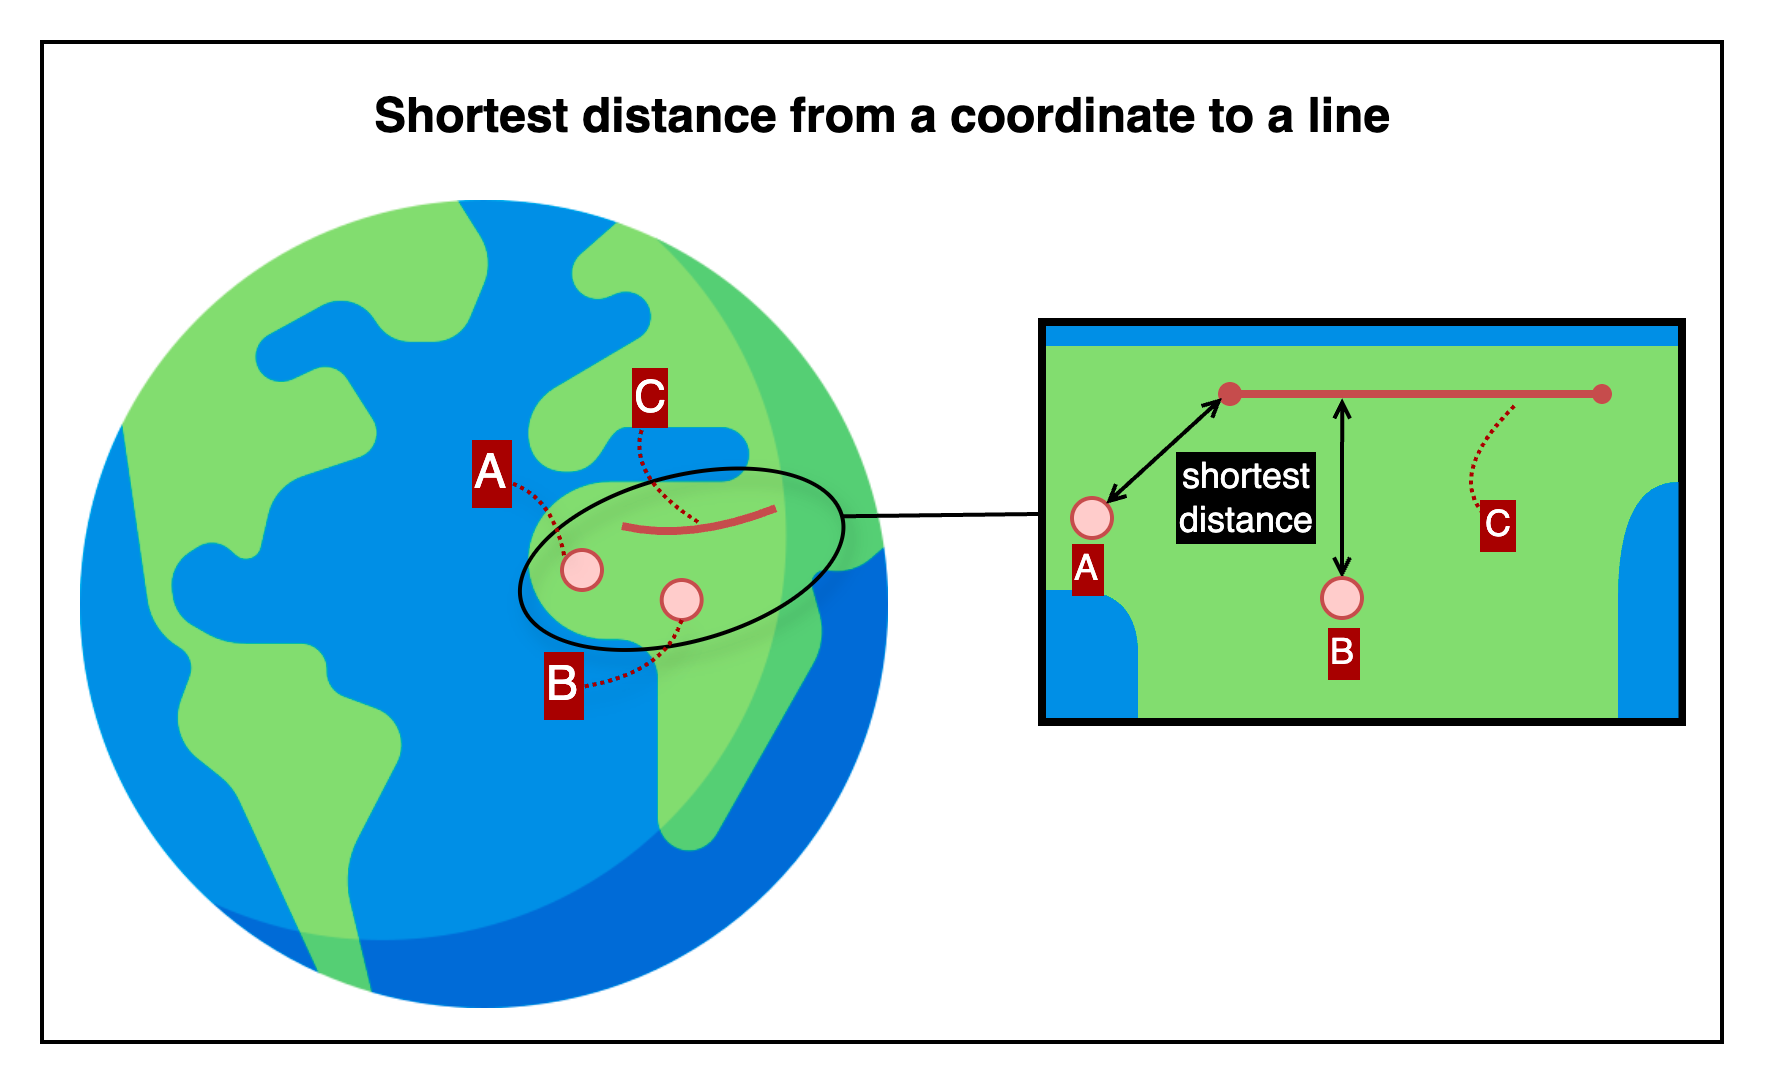
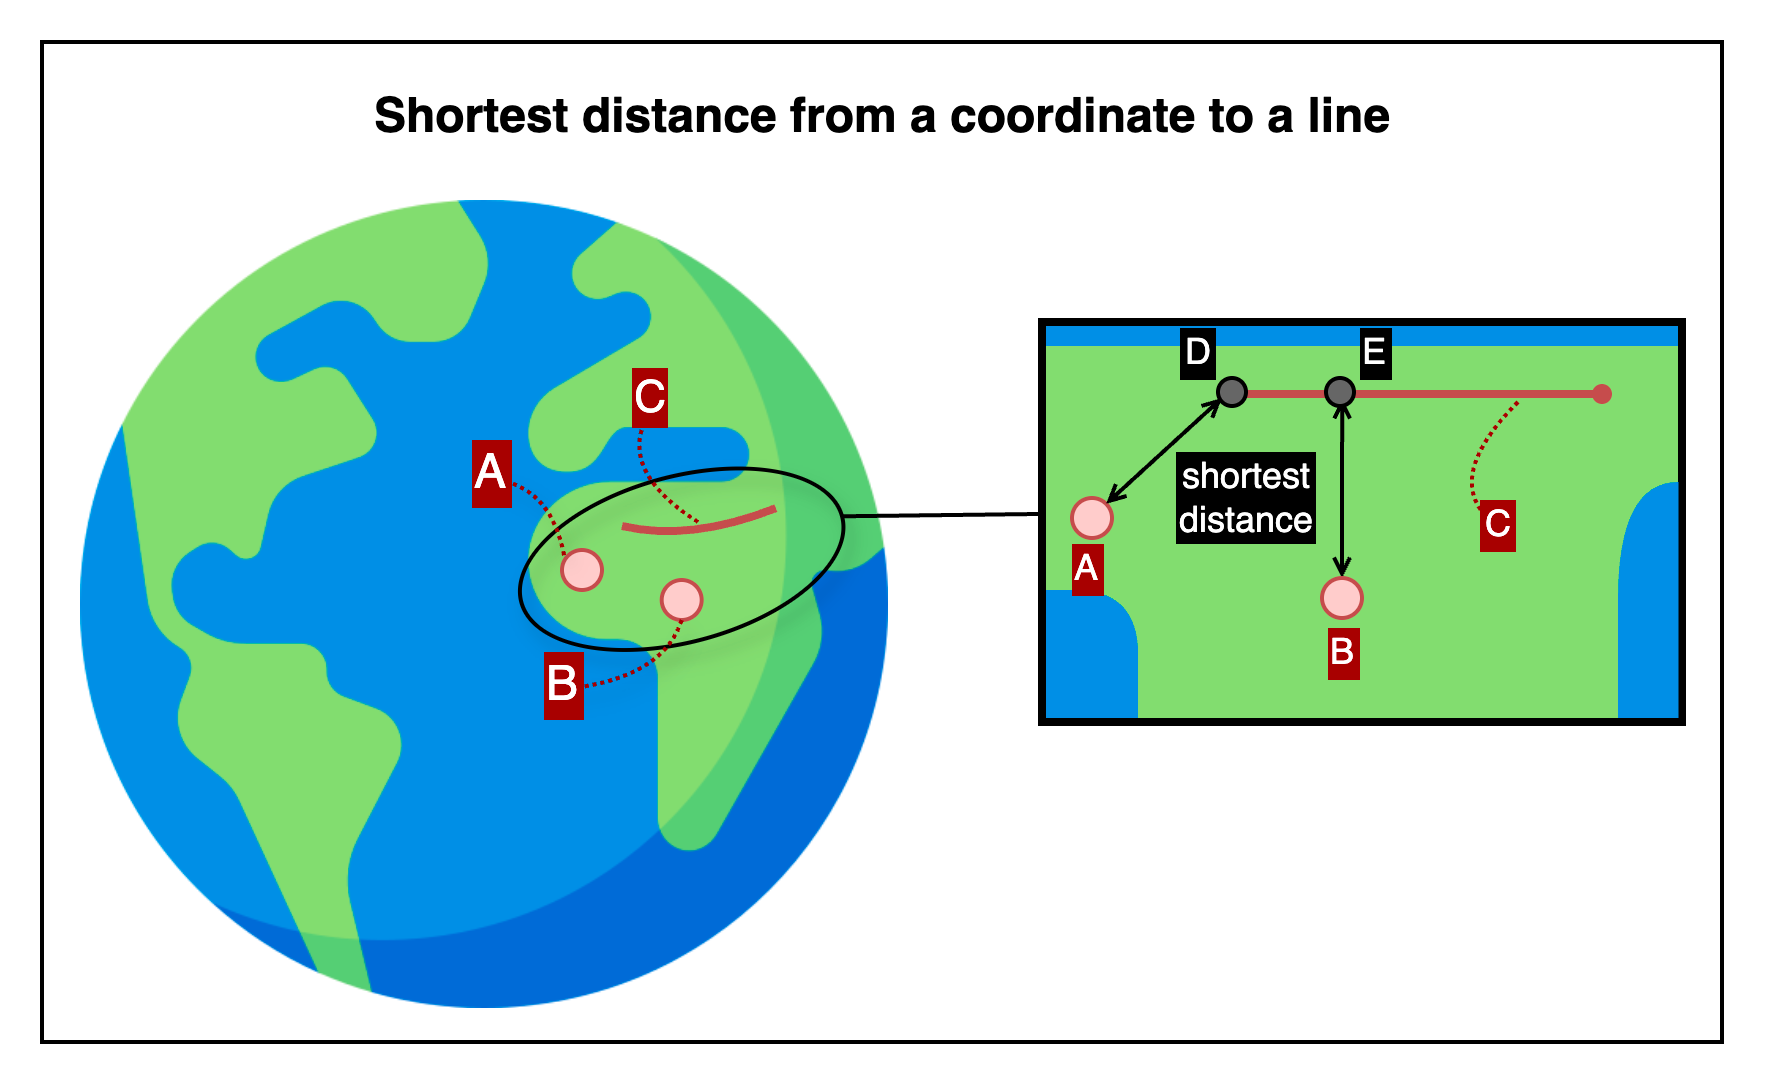
[docs] geo-calculation-toolkit-api 최신화

diff --git a/profile/projects/geo-calculation-toolkit-api/detail/shortest-distance-from-a-coordinate-to-a-line.md b/profile/projects/geo-calculation-toolkit-api/detail/shortest-distance-from-a-coordinate-to-a-line.md
@@ -1,0 +1,187 @@
+## Shortest distance from a coordinate to a line
+
+This is an HTTP API that calculates the shortest surface distance from a given coordinate to a straight line defined by
+two geographic points.
+
+
+---
+
+## 📚 Table of Contents
+
+1. [🧭 Overview](#-1-overview) — *For first-time users*
+2. [📤 Request Details](#-2-request-details) — *For developers integrating the API*
+    1. [Request Example](#21-request-example)
+    2. [Request Specifications](#22-request-specifications)
+3. [📥 Response Details](#-3-response-details)
+    1. [Response Example](#31-response-example)
+    2. [Response Specifications](#32-response-specifications)
+4. [💥 Error Response Details](#-4-error-response-details)
+    1. [Error Response Example](#41-error-response-example)
+    2. [Error Response Specifications](#42-error-response-specifications)
+    3. [Error Codes](#43-error-codes)
+5. [🔗 Reference Links](#-5-reference-links) — *For testing the API and retrieving your API key*
+
+---
+
+## 🧭 1. Overview
+
+![shortest-distance-from-a-coordinate-to-a-line](./img/shortest-distance-from-a-coordinate-to-a-line.png)
+
+This image provides a visual explanation of how the API calculates the shortest distance from a coordinate to a single
+polyline.
+Points A and B represent specific locations defined by latitude and longitude, while polyline C is a straight line
+segment formed by exactly two geographic coordinates.
+
+- For point A, the shortest distance to polyline C is represented by the segment from A to point D, which lies on
+  polyline C.
+- For point B, the shortest distance is the segment from B to point E, also located on polyline C.
+
+This API takes a single coordinate and a polyline consisting of two coordinates as input, and returns the shortest
+surface distance, taking the curvature of the Earth into account.
+
+
+---
+
+## 📤 2. Request Details
+
+### 2.1. Request Example
+
+```http request
+POST {{base-url}}/distance/from-point-to-line/shortest?unit=mm
+Content-Type: application/json
+
+{
+  "coordinate": {
+    "lat": 37.618492,
+    "lng": 126.920078
+  },
+  "line": {
+    "fromCoordinate": {
+      "lat": 37.618515,
+      "lng": 126.920021
+    },
+    "toCoordinate": {
+      "lat": 37.618385,
+      "lng": 126.920339
+    }
+  }
+}
+```
+
+### 2.2. Request Specifications
+
+**2.2.1. Base Endpoint Info**
+
+| API Provider Platform | Method | Base URL(HTTP Protocol + Host)   | Path                                    |
+|:---------------------:|:------:|----------------------------------|:----------------------------------------|
+|       Rapid API       |  POST  | `https://yourapi.p.rapidapi.com` | `/distance/from-point-to-line/shortest` |
+
+**2.2.2. Request Headers**
+
+| Header Name       | Type   | Required | Description                         |
+|-------------------|--------|----------|-------------------------------------|
+| `Content-Type`    | string | ✅ Yes    | Must be `application/json`          |
+| `X-RapidAPI-Key`  | string | ✅ Yes    | Your API key issued by RapidAPI     |
+| `X-RapidAPI-Host` | string | ✅ Yes    | The API host identifier on RapidAPI |
+
+**2.2.3. Query Parameters**
+
+| Parameter | Type   | Required   | Description                                                |
+|-----------|--------|------------|------------------------------------------------------------|
+| `unit`    | string | ❌ Optional | Distance unit (`mm`, `m`, `km`, `ft`, `mi`) - defaults `m` |
+
+**2.2.4. Request Body**
+
+| Field              | Type   | Required | Description                                                   |
+|--------------------|--------|----------|---------------------------------------------------------------|
+| `coordinate`       | object | ✅ Yes    | The point from which the shortest distance will be calculated |
+| └ `lat`            | number | ✅ Yes    | Latitude of the input point                                   |
+| └ `lng`            | number | ✅ Yes    | Longitude of the input point                                  |
+| `line`             | object | ✅ Yes    | The line segment defined by two coordinates                   |
+| └ `fromCoordinate` | object | ✅ Yes    | Starting point of the line                                    |
+| └─ `lat`           | number | ✅ Yes    | Latitude of the starting point                                |
+| └─ `lng`           | number | ✅ Yes    | Longitude of the starting point                               |
+| └ `toCoordinate`   | object | ✅ Yes    | Ending point of the line                                      |
+| └─ `lat`           | number | ✅ Yes    | Latitude of the ending point                                  |
+| └─ `lng`           | number | ✅ Yes    | Longitude of the ending point                                 |
+
+---
+
+## 📥 3. Response Details
+
+### 3.1. Response Example
+
+```json
+{
+  "success": true,
+  "data": {
+    "distance": 31.4989,
+    "unit": "m"
+  }
+}
+```
+
+### 3.2. Response Specifications
+
+| Field       | Type    | Nullable | Description                                                                           |
+|-------------|---------|----------|---------------------------------------------------------------------------------------|
+| `success`   | boolean | ❌ No     | Indicates whether the operation succeeded                                             |
+| `data`      | object  | ❌ No     | Included only when `success` is `true`                                                |
+| └`distance` | number  | ❌ No     | Shortest surface distance from the input coordinate to the line (4 decimal precision) |
+| └`unit`     | string  | ❌ No     | Unit of measurement (e.g. `m`, `km`, `mi`)                                            |
+
+---
+
+## 💥 4. Error Response Details
+
+### 4.1. Error Response Example
+
+```http request
+400 Bad Request
+Content-Type: application/json
+
+{
+  "success": false,
+  "code": "REQUIRED_PARAMETER_MISSING",
+  "message": "Required parameter is missing.",
+  "detailMessage": "Required parameter is missing. (fromCoordinate)"
+}
+```
+
+### 4.2. Error Response Specifications
+
+**4.2.1. Error Response Headers**
+
+| Header Name    | Example Value      | Description                    |
+|----------------|--------------------|--------------------------------|
+| `Content-Type` | `application/json` | MIME type of the response body |
+
+**4.2.2. Error Response Body**
+
+| Field           | Type    | Nullable | Description                                                                       |
+|-----------------|---------|----------|-----------------------------------------------------------------------------------|
+| `success`       | boolean | ❌ No     | Indicates whether the operation was successful. Always `false` here.              |
+| `code`          | string  | ❌ No     | Application-defined error code representing the type of failure.                  |
+| `message`       | string  | ❌ No     | General explanation of the error.                                                 |
+| `detailMessage` | string  | ❌ No     | 	Additional information providing context about the error for debugging purposes. |
+
+### 4.3. Error Codes
+
+To view the full list of error codes, please visit the link below.
+
+- [Error Codes](./common/error-codes.md)
+
+---
+
+## 🔗 5. Reference Links
+
+- [🚀 Try the API on RapidAPI Console](https://rapidapi.com/your-api/test)  
+  Run live requests, view sample code, pricing, and manage your API key—all in one place.
+
+
+- [💬 Contact Support](mailto:support@yourapi.com)  
+  If you have any questions or need help with the API, feel free to email us. We’ll get back to you as soon as possible.
+
+---
+
+[Go to API List](../index.md)

diff --git a/profile/projects/geo-calculation-toolkit-api/detail/distance-between-two-coordinates.md b/profile/projects/geo-calculation-toolkit-api/detail/distance-between-two-coordinates.md
@@ -27,11 +27,11 @@ points specified by latitude and longitude.
 
 ![distance-between-two-coordinates](./img/distance-between-two-coordinates.png)
 
-This image is a **visual representation of the distance between two geographic coordinates**.
-Points **A** and **B** are defined by their **latitude** and **longitude**, forming geographic coordinates.
-While the image illustrates the distance as a **straight line on a flat surface** for simplicity,
-it actually represents the **shortest path over the Earth’s surface**, known as the **Great-circle distance**.
-The API below takes two such coordinates as input and returns the **calculated shortest distance on Earth**.
+This image is a visual representation of the distance between two geographic coordinates.
+Points A and B are defined by their latitude and longitude, forming geographic coordinates.
+While the image illustrates the distance as a straight line on a flat surface for simplicity,
+it actually represents the shortest path over the Earth’s surface, known as the Great-circle distance.
+The API below takes two such coordinates as input and returns the calculated shortest distance on Earth.
 
 
 ---
@@ -60,9 +60,9 @@ Content-Type: application/json
 
 **2.2.1. Base Endpoint Info**
 
-| **API Provider Platform** | **Method** | **Base URL(HTTP Protocol + Host)** | **Path**                        |
-|:-------------------------:|:----------:|------------------------------------|:--------------------------------|
-|         Rapid API         |    POST    | `https://yourapi.p.rapidapi.com`   | `/distance/between-coordinates` |
+| API Provider Platform | Method | Base URL(HTTP Protocol + Host)   | Path                            |
+|:---------------------:|:------:|----------------------------------|:--------------------------------|
+|       Rapid API       |  POST  | `https://yourapi.p.rapidapi.com` | `/distance/between-coordinates` |
 
 **2.2.2. Request Headers**
 
@@ -142,12 +142,12 @@ Content-Type: application/json
 
 **4.2.2. Error Response Body**
 
-| Field           | Type    | Nullable | Description                                                          |
-|-----------------|---------|----------|----------------------------------------------------------------------|
-| `success`       | boolean | ❌ No     | Indicates whether the operation was successful. Always `false` here. |
-| `code`          | string  | ❌ No     | Application-defined error code representing the type of failure.     |
-| `message`       | string  | ❌ No     | General explanation of the error.                                    |
-| `detailMessage` | string  | ❌ No     | Detailed context or location of the error, useful for debugging.     |
+| Field           | Type    | Nullable | Description                                                                       |
+|-----------------|---------|----------|-----------------------------------------------------------------------------------|
+| `success`       | boolean | ❌ No     | Indicates whether the operation was successful. Always `false` here.              |
+| `code`          | string  | ❌ No     | Application-defined error code representing the type of failure.                  |
+| `message`       | string  | ❌ No     | General explanation of the error.                                                 |
+| `detailMessage` | string  | ❌ No     | 	Additional information providing context about the error for debugging purposes. |
 
 ### 4.3. Error Codes
 
@@ -160,19 +160,11 @@ To view the full list of error codes, please visit the link below.
 ## 🔗 5. Reference Links
 
 - [🚀 Try the API on RapidAPI Console](https://rapidapi.com/your-api/test)  
-  Run live requests and see actual responses from the API.
+  Run live requests, view sample code, pricing, and manage your API key—all in one place.
 
-- [🔑 Get Your API Key](https://rapidapi.com/account)  
-  Sign in and generate your personal API key to start integrating.
-
-- [💻 Sample Code on GitHub](https://github.com/your-org/your-api-samples)  
-  Browse ready-to-use examples in multiple programming languages.
-
-- [📈 View Pricing & Rate Limits](https://rapidapi.com/your-api/pricing)  
-  See available plans, quotas, and usage limits.
 
 - [💬 Contact Support](mailto:support@yourapi.com)  
-  Reach out if you have questions, issues, or need integration help.
+  If you have any questions or need help with the API, feel free to email us. We’ll get back to you as soon as possible.
 
 ---
 
